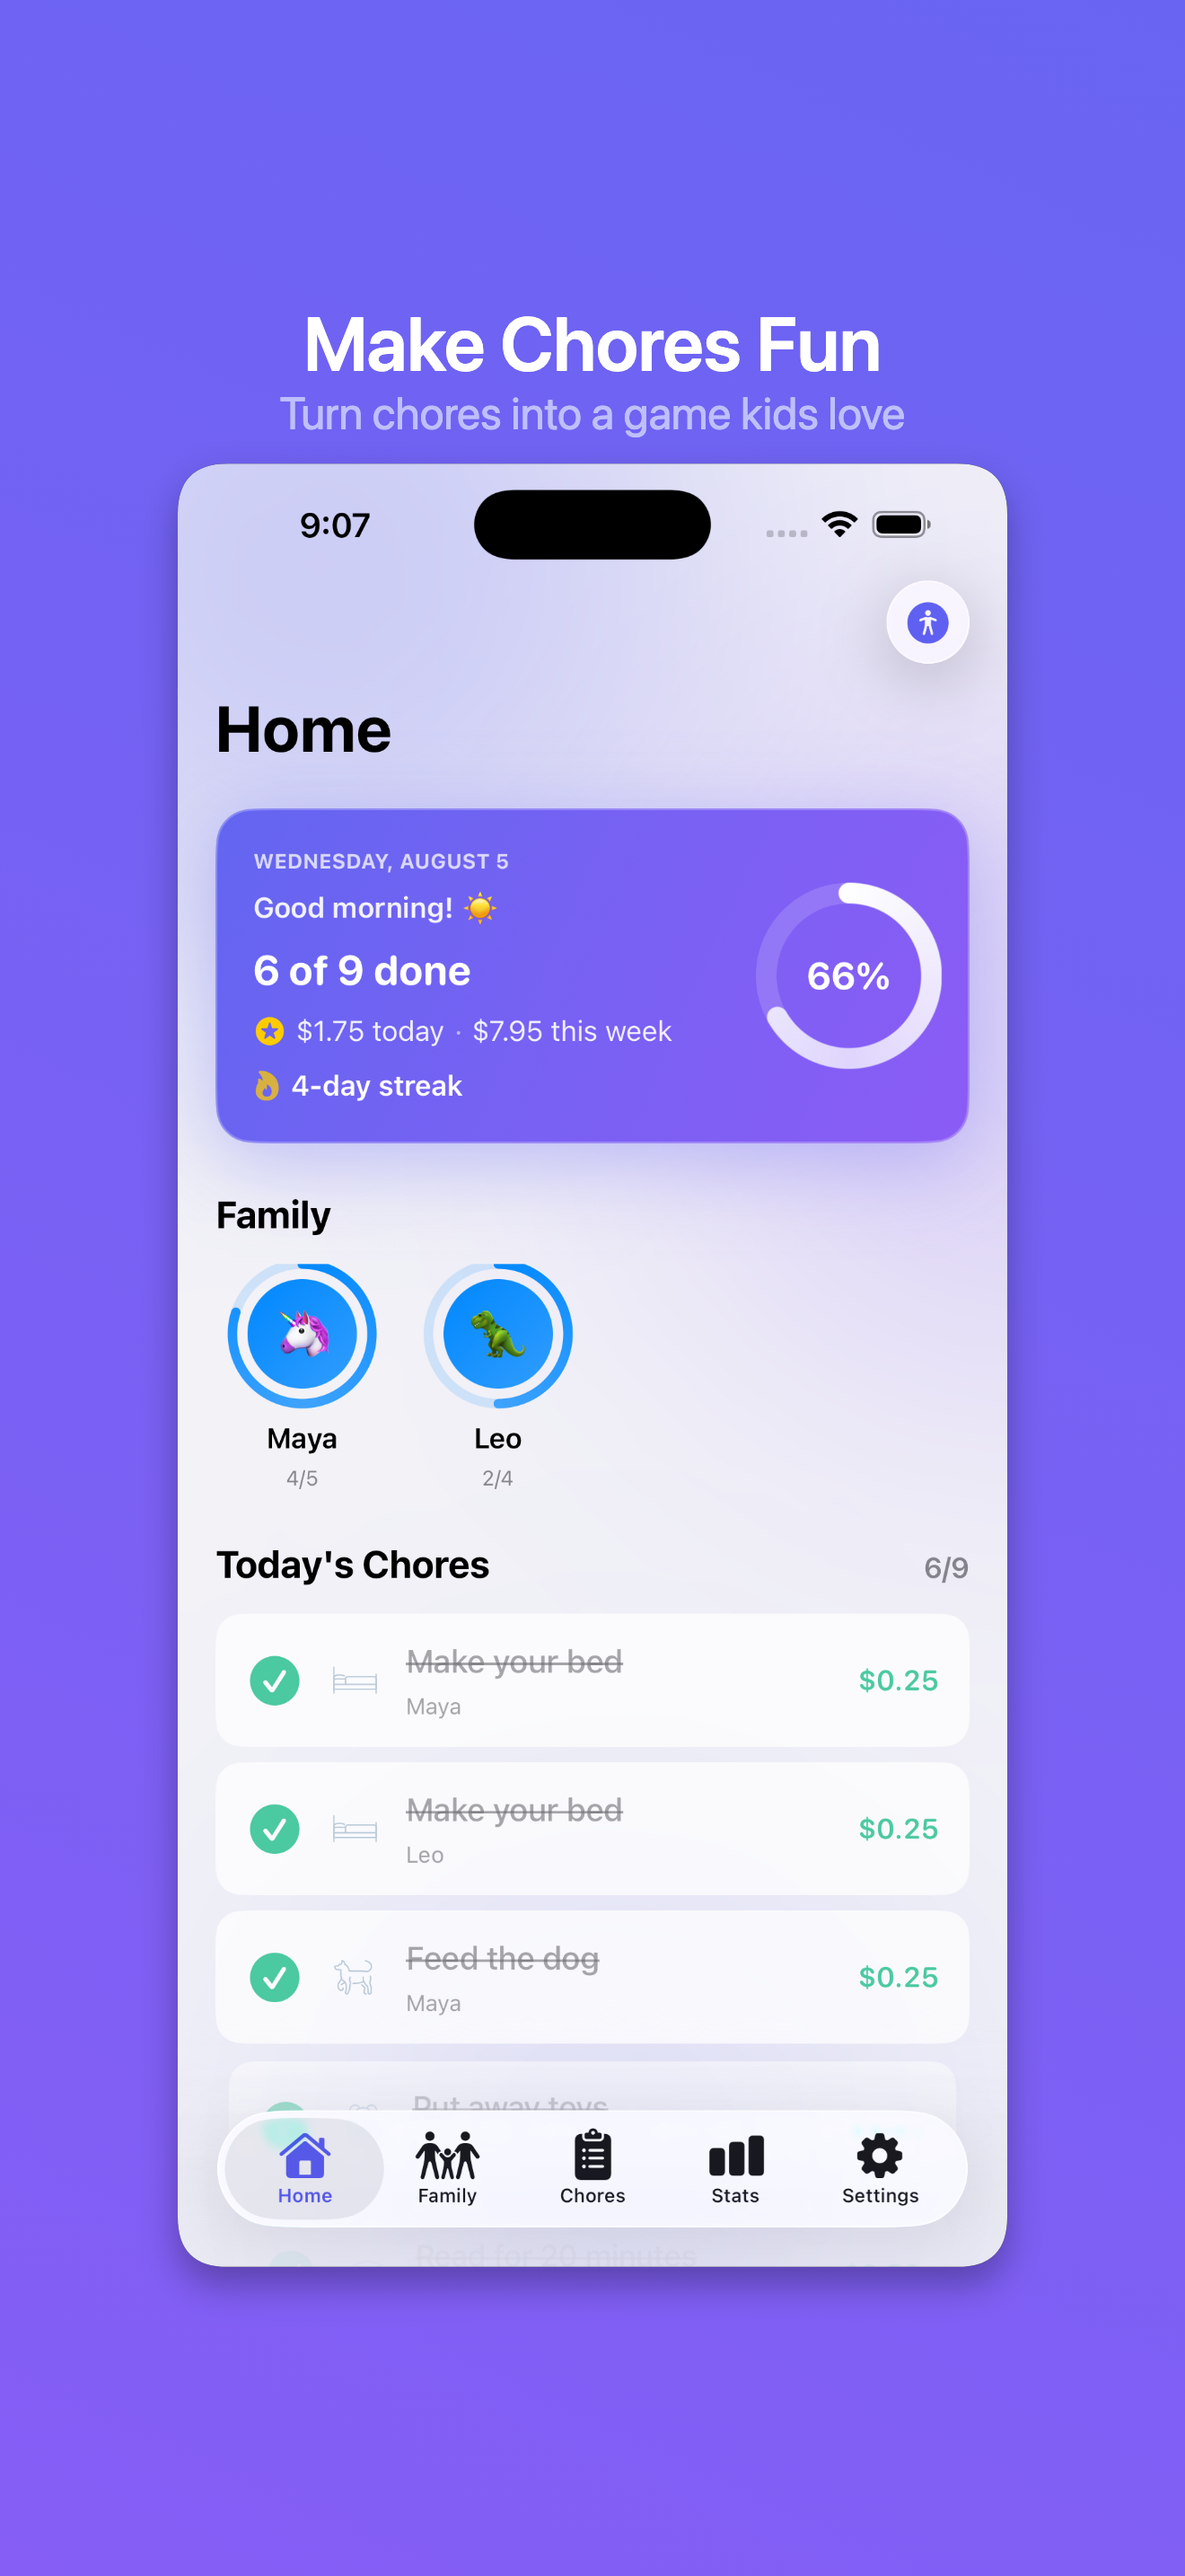
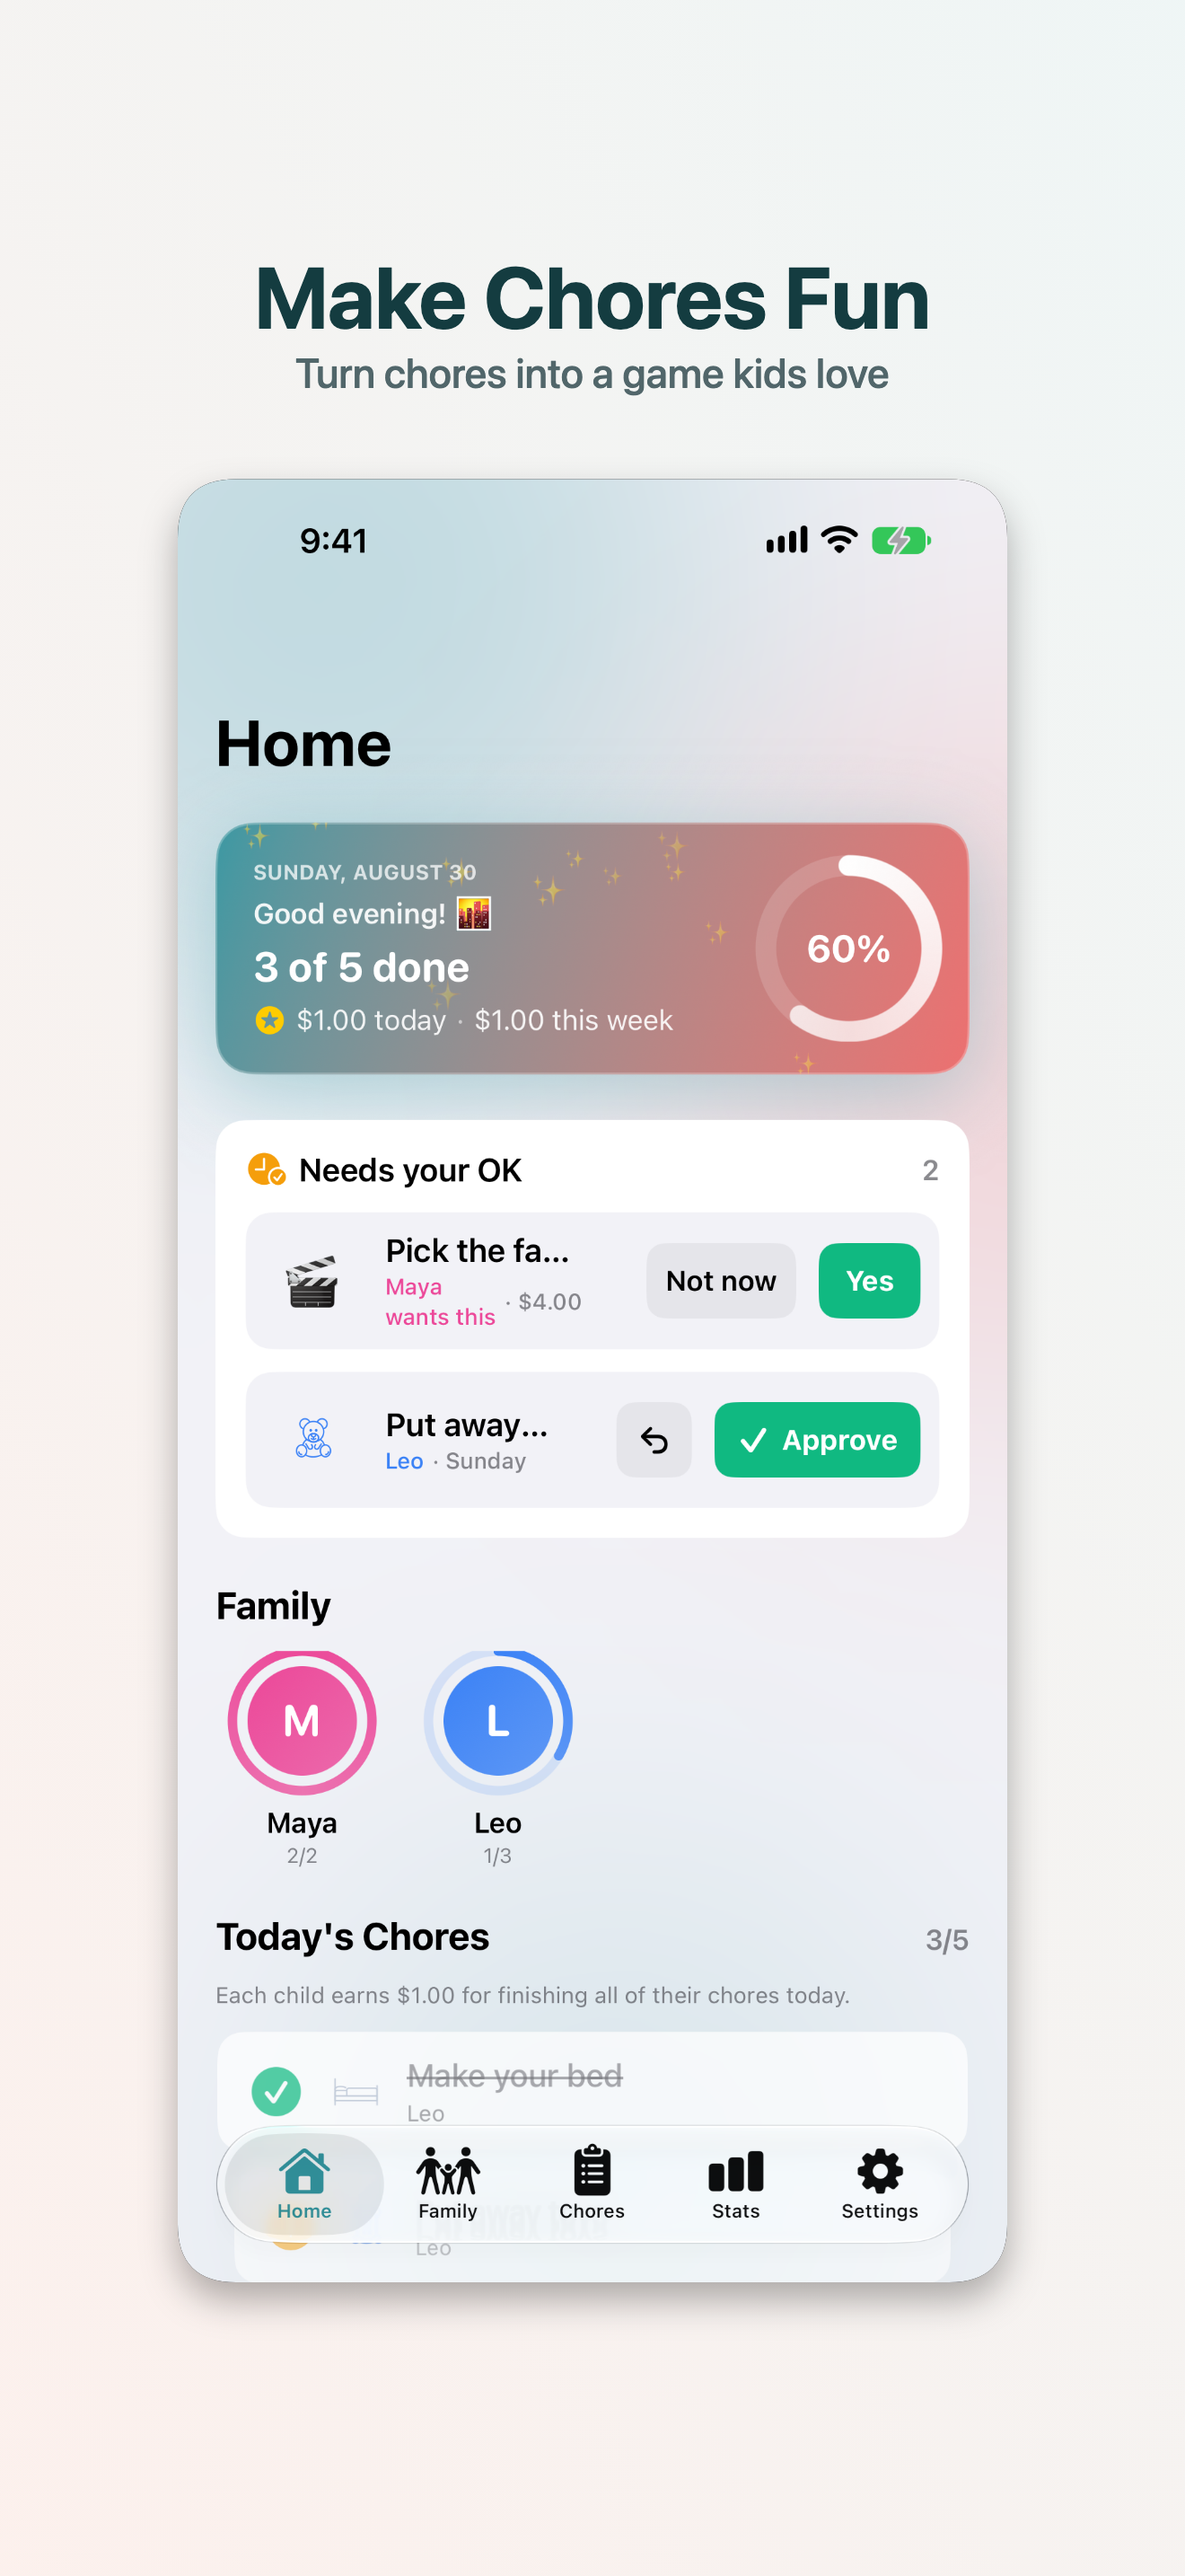
shots(ios): 2.0 framed App Store sets, new teal-blush frame, staged kid code
Replace the 1.8 purple-gradient framed sets with the 2.0 sets (8 shots per
device, iPhone 6.9" 1320x2868 + iPad 13" 2064x2752) framed on the new
soft teal-to-blush gradient. Kid-login shots now show the staged family
code star2026 instead of the account's generated one. captions.md gains
the frame recipe and matches the applied captions.

diff --git a/ChoreStar-iOS/appstore-screenshots/captions.md b/ChoreStar-iOS/appstore-screenshots/captions.md
@@ -12,12 +12,12 @@ are applied afterwards (AppScreens).
 |---|------|----------|----------|
 | 1 | 01-home.png | Make Chores Fun | Turn chores into a game kids love |
 | 2 | 02-kid-dashboard.png | Kids Save For Goals | Watch the bar fill toward the prize |
-| 3 | 03-kid-store.png | Spend In Your Store | Screen time, movie night, you price it |
+| 3 | 03-kid-store.png | Spend In Your Store | Screen time & movie night, you price it |
 | 4 | 04-chores.png | Chores On Their Days | Trash on Tuesdays, piano Mon & Wed |
 | 5 | 05-routines.png | Mornings Run Themselves | Step-by-step routines with timers |
 | 6 | 06-family.png | One App, Whole Crew | Every kid gets an avatar and a PIN |
 | 7 | 07-stats.png | Watch Streaks Grow | Perfect days, badges & weekly stats |
-| 8 | 08-kid-login.png | Kids Sign In Solo | No email — a family code and a PIN |
+| 8 | 08-kid-login.png | Kids Sign In Solo | No email, just a family code and PIN |
 
 Alternates (true, swappable):
 - Approve Before It Counts / Optional OK step, photo proof included
@@ -28,3 +28,20 @@ Alternates (true, swappable):
 Note: "Approve Every Task" style captions are now TRUE if approval mode is
 shown, but only claim it on a screenshot where the Needs your OK tray is
 visible (01-home has it).
+
+## Frame treatment (2.0)
+
+Applied via the AppScreens MCP bridge, replacing the old purple brand
+gradient. Both device sets use the same recipe:
+
+- Background: linear gradient, 165deg, `#eef6f6` -> `#fdf0ec` (soft teal to
+  blush; matches the seasonal-theme softness without competing with the UI)
+- Device: ~70% scale (72% iPad), centered, corner radius 28, soft shadow
+  (`#0e3a40` at 20% opacity, blur 60, y 24)
+- Text: top, headline 96 / weight 700 / `#143c40`; subtitle 46 / weight 500 /
+  `#51666a`
+- Output: iPhone 1320x2868 (6.9"), iPad 2064x2752 (13")
+
+Kid-login shots show the staged family code `star2026`
+(profiles.kid_login_code for The Star Family was reseeded from the
+auto-generated value before capture).
